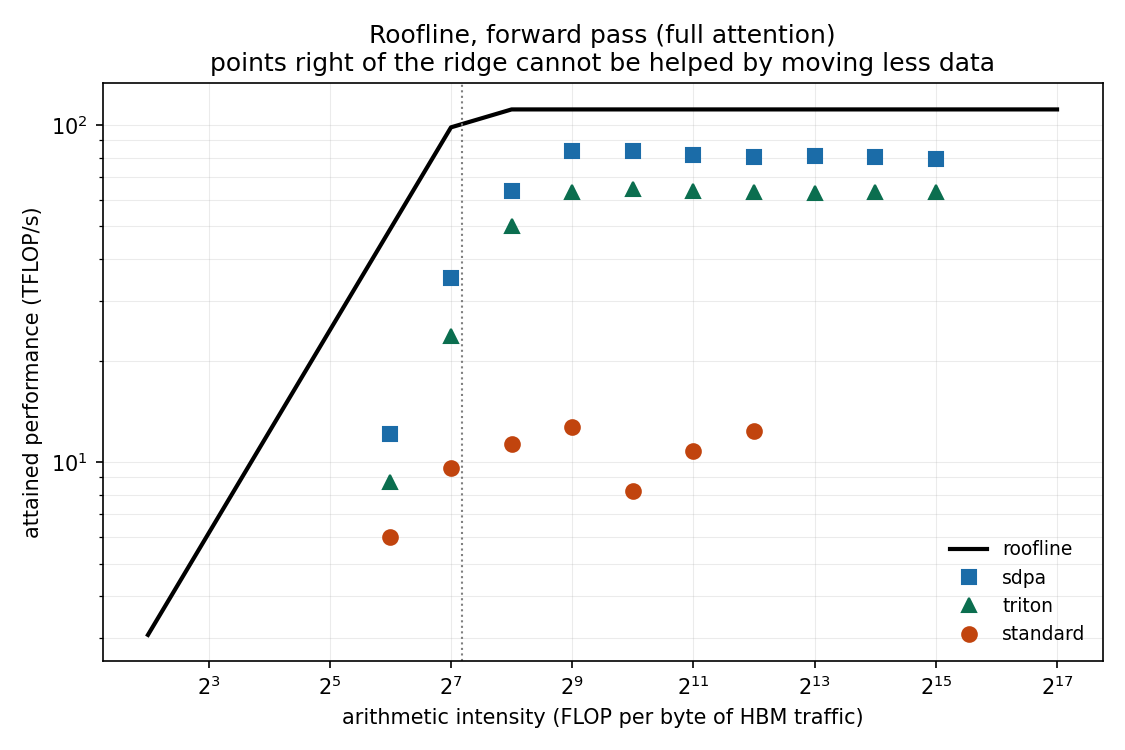
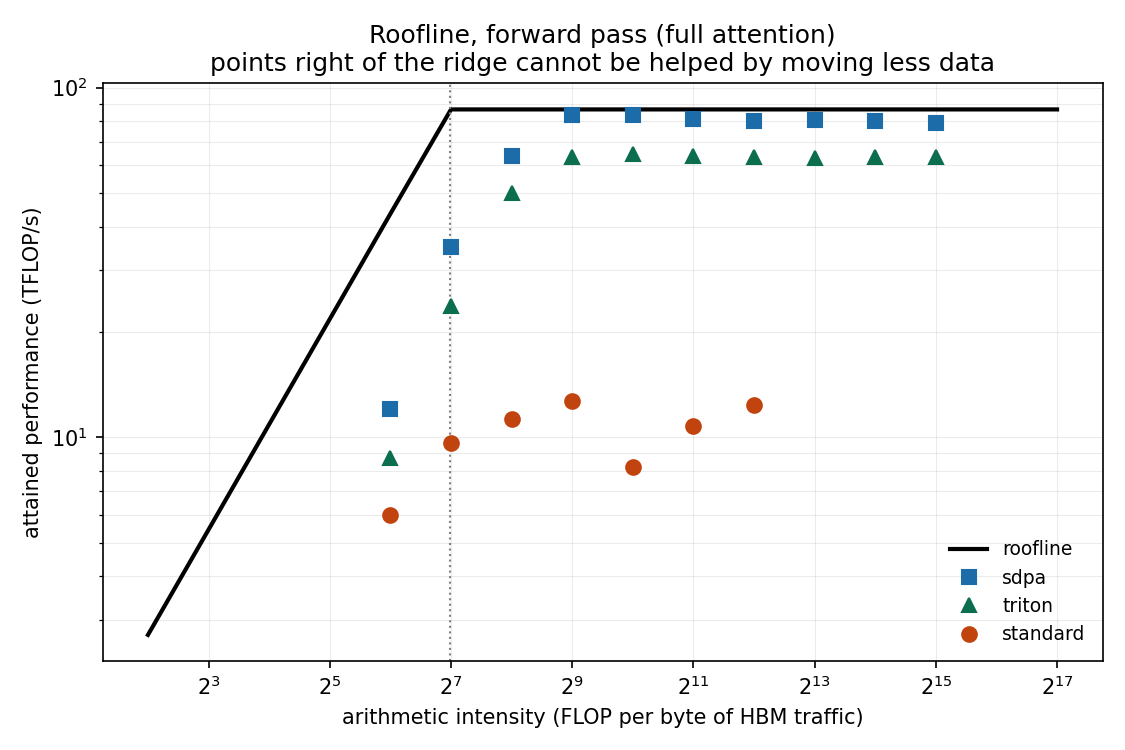
perf: roofline against measured hardware ceilings, not datasheet figures

diff --git a/benchmarks/roofline.py b/benchmarks/roofline.py
@@ -133,7 +133,8 @@ def report(fwd, ceilings: Ceilings) -> None:
         )
 
     sat = sub[sub.seq_len >= 4096]
-    print(f"saturated at {sat.pct_of_peak_compute.mean():.0f}% of assumed peak compute")
+    kind = "measured" if "measured" in ceilings.source else "assumed"
+    print(f"saturated at {sat.pct_of_peak_compute.mean():.0f}% of {kind} peak compute")
 
     # The measurements bound their own ceiling: no implementation can exceed
     # the hardware, so the fastest observed rate is a floor on the true peak.
